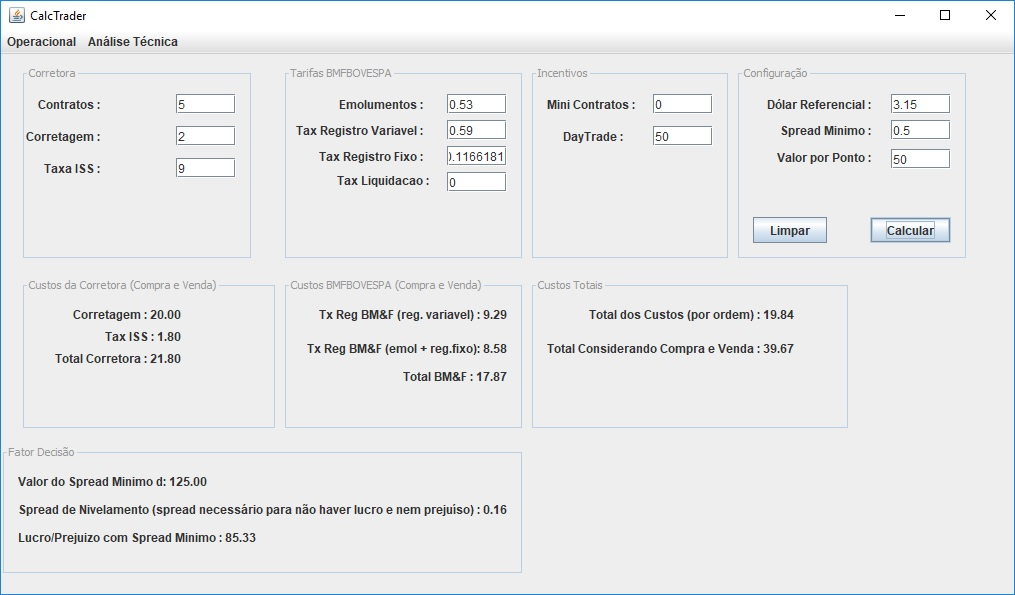
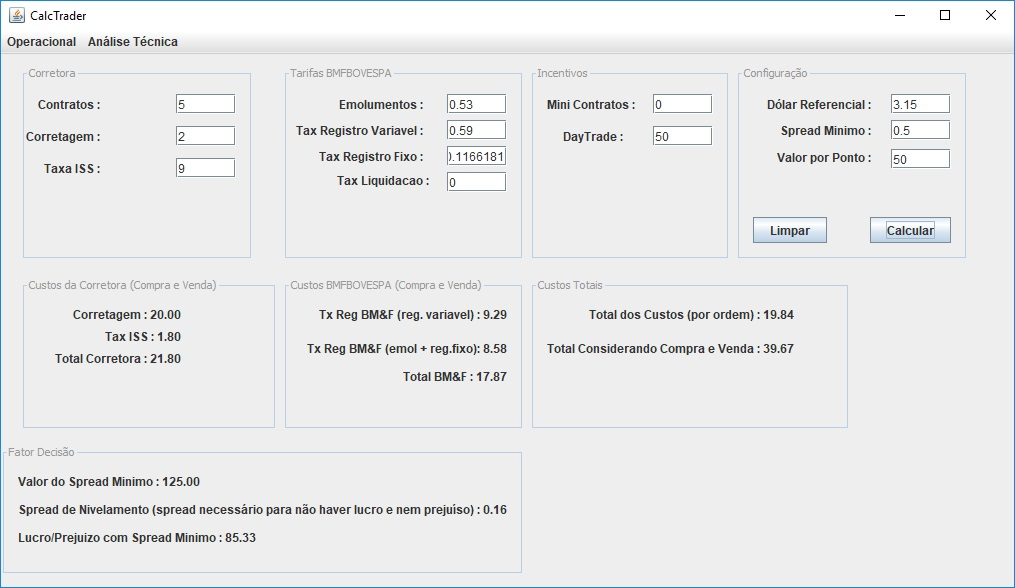
CalcTrader

diff --git a/src/calctrader/janelas/PainelCustos.java b/src/calctrader/janelas/PainelCustos.java
@@ -588,7 +588,7 @@ public class PainelCustos extends javax.swing.JPanel {
         jLabelTotalCustosCompraVenda.setText("Total Considerando Compra e Venda : "+String.format("%.2f",Custos.getCustosTotais()));
 
         
-        jLabelValorSpreadMinimo.setText("Valor do Spread Minimo d: "+String.format("%.2f",Custos.getValorMinimo()));
+        jLabelValorSpreadMinimo.setText("Valor do Spread Minimo : "+String.format("%.2f",Custos.getValorMinimo()));
         jLabelSpreadNivelamento.setText("Spread de Nivelamento (spread necessário para não haver lucro e nem prejuíso) : "+String.format("%.2f",Custos.getSpredMinimoLucro()));
         jLabelLucroPrejuizoSpreadMinimo.setText("Lucro/Prejuizo com Spread Minimo : "+ String.format("%.2f",Custos.getLucroPrejuizoSpreadMinimo()));
   
